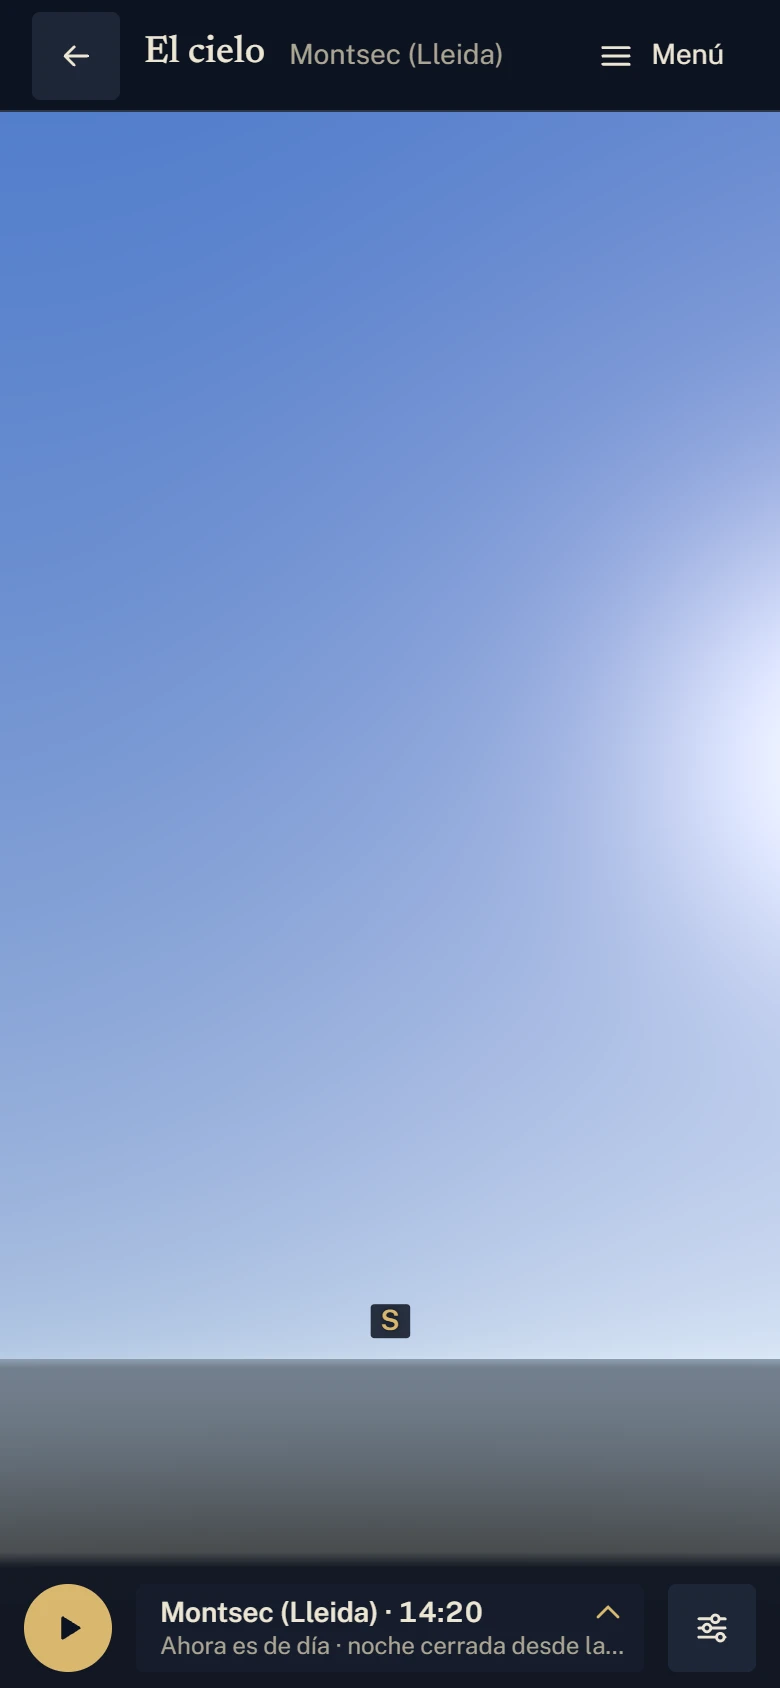
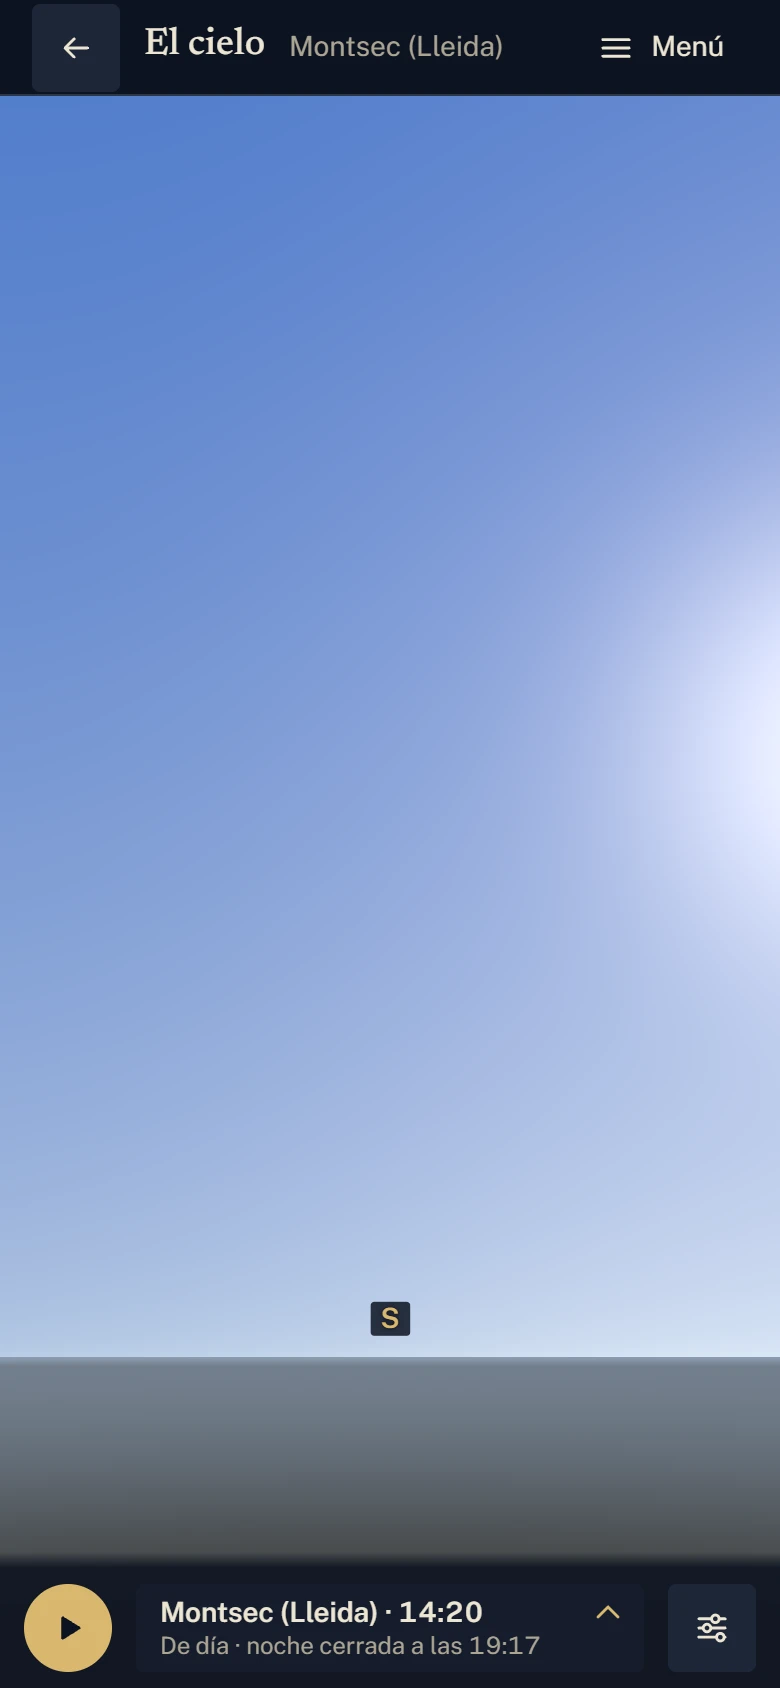
fix: lo de la revisión de la fase 10: el aviso del radar entero en el móvil, el cielo de día con su hora en la barra y los menores rápidos
- El aviso del radar de Venus, entero a la vista en la hoja del móvil en reposo
  (afterRenderEffect), con su e2e (toBeInViewport con ratio 1). Hallazgo 2.
- El resumen de día, «De día · noche cerrada a las …», cabe en la barra a 390 px.
  Hallazgo 3.
- «94 % iluminada» con el espacio duro (13); las lunas con mucho recreado, «su
  superficie, en parte recreada», con test (12a); las Venera, sin la afirmación sin
  fuente (12b); «Rendimiento medido», con las cifras de la fase 10 (14); los
  comentarios sobrantes (15); Chromium desde @playwright/test (16).
- Las capturas nuevas: el radar en el móvil y la revisión final del cielo de día.

Changed region(s): [[0.0, 0.0, 1.0, 0.0924], [0.2154, 0.955, 0.7692, 0.9858], [0.4615, 0.7701, 0.5231, 0.8009]]

diff --git a/src/app/features/body-panel/body-panel.ts b/src/app/features/body-panel/body-panel.ts
@@ -1,4 +1,14 @@
-import { Component, computed, inject, input, model, output } from '@angular/core';
+import {
+  Component,
+  type ElementRef,
+  afterRenderEffect,
+  computed,
+  inject,
+  input,
+  model,
+  output,
+  viewChild,
+} from '@angular/core';
 import { RouterLink } from '@angular/router';
 import { formatAu, formatDistanceKm, formatPeriodHours } from '../../core/format';
 import { getBody } from '../../data/bodies';
@@ -70,6 +80,28 @@ export class BodyPanel {
   readonly radarChange = output<boolean>();
 
   private readonly positions = inject(SystemPositions);
+  private readonly radarNote = viewChild<ElementRef<HTMLElement>>('radarNote');
+
+  constructor() {
+    // Con el radar puesto, su aviso («no es lo que verían tus ojos», D44 y D49), entero a la vista: en
+    // la hoja del móvil en reposo, con tres líneas, la última quedaba bajo el borde o bajo la sombra de
+    // «hay más» (revisión de la fase 10, hallazgo 2). Si algo queda tapado, el cuerpo de la ficha baja
+    // lo justo, sin animación. En escritorio, la tarjeta lo enseña todo y no se mueve.
+    afterRenderEffect({
+      earlyRead: () => {
+        const note = this.radar() === 'on' ? this.radarNote()?.nativeElement : undefined;
+        const body = note?.closest<HTMLElement>('.card__body');
+        if (!note || !body) return 0;
+        const shadowPx = 24; // la sombra de «hay más», 1.5rem (body-panel.css)
+        const visibleBottom = body.getBoundingClientRect().bottom - shadowPx;
+        return Math.max(0, note.getBoundingClientRect().bottom - visibleBottom);
+      },
+      write: (hidden) => {
+        if (hidden() <= 0) return;
+        this.radarNote()?.nativeElement.closest('.card__body')?.scrollBy({ top: hidden() });
+      },
+    });
+  }
   protected readonly body = computed(() => getBody(this.bodyId()));
   protected readonly kind = computed(() => bodyKindLabel(this.bodyId()));
   protected readonly link = computed(() => bodyPagePath(this.bodyId()));

diff --git a/src/app/features/sky-panel/sky-text.ts b/src/app/features/sky-panel/sky-text.ts
@@ -205,12 +205,6 @@ export interface SkySummaryBody {
 const SUMMARY_MAX = 3;
 
 /**
- * La línea de resumen del panel del cielo (fase 9c, 9c.3): la Luna y los planetas que están ahora sobre
- * el horizonte, los más altos primero («Saturno, 37° SE · Luna, 12° E»), y su lectura para el lector de
- * pantalla, con los rumbos en palabras. El Sol no: de día ya se dice aparte. La tabla entera, en «Esta
- * noche».
- */
-/**
  * Cuándo empieza la noche cerrada: el final del crepúsculo astronómico o, si el Sol no baja tanto
  * (el verano), el del náutico o el del civil.
  */
@@ -219,7 +213,8 @@ export const darkStart = (night: Extract<NightSky, { kind: 'night' }>): Date =>
 
 /**
  * El resumen de día (crítica de la fase 10): en lugar de nombrar lo que está sobre el horizonte y no
- * se ve, que es de día y cuándo empieza la noche cerrada.
+ * se ve, que es de día y cuándo empieza la noche cerrada. Corto, para que la hora quepa en la barra del
+ * móvil a 360 px (revisión de la fase 10, hallazgo 3).
  */
 export function daySummary(
   night: Extract<NightSky, { kind: 'night' }>,
@@ -227,11 +222,17 @@ export function daySummary(
 ): { readonly text: string; readonly spoken: string } {
   const at = clockAt(darkStart(night), place);
   return {
-    text: `Ahora es de día · noche cerrada desde las ${at}`,
+    text: `De día · noche cerrada a las ${at}`,
     spoken: `Ahora es de día. La noche cerrada empieza a las ${at}.`,
   };
 }
 
+/**
+ * La línea de resumen del panel del cielo (fase 9c, 9c.3): la Luna y los planetas que están ahora sobre
+ * el horizonte, los más altos primero («Saturno, 37° SE · Luna, 12° E»), y su lectura para el lector de
+ * pantalla, con los rumbos en palabras. El Sol no: de día ya se dice aparte. La tabla entera, en «Esta
+ * noche».
+ */
 export function skySummary(bodies: readonly SkySummaryBody[]): {
   readonly text: string;
   readonly spoken: string;

diff --git a/src/app/pages/about/about-page.html b/src/app/pages/about/about-page.html
@@ -265,21 +265,21 @@
       <tbody>
         <tr>
           <th scope="row">Imágenes por segundo, en todas las vistas y niveles</th>
-          <td class="number">58–60</td>
+          <td class="number">59–60</td>
           <td class="number">≥ 55</td>
-          <td><a [href]="report('7')">Fase 7</a></td>
+          <td><a [href]="report('10')">Fase 10</a></td>
         </tr>
         <tr>
           <th scope="row">Memoria de vídeo de la vista Tierra (alto y bajo)</th>
-          <td class="number">278 y 85&nbsp;MB</td>
+          <td class="number">278 y 86&nbsp;MB</td>
           <td class="number">300 y 120&nbsp;MB</td>
-          <td><a [href]="report('5')">Fase 5</a></td>
+          <td><a [href]="report('10')">Fase 10</a></td>
         </tr>
         <tr>
           <th scope="row">Las posiciones de los 30 cuerpos, por imagen</th>
-          <td class="number">0,16&nbsp;ms</td>
+          <td class="number">0,17–0,19&nbsp;ms</td>
           <td class="number">2&nbsp;ms</td>
-          <td><a [href]="report('2')">Fase 2</a></td>
+          <td><a [href]="report('10')">Fase 10</a></td>
         </tr>
         <tr>
           <th scope="row">Desplazamiento de la página al cargar (CLS), en tres móviles</th>
@@ -385,9 +385,9 @@
     </li>
     <li>
       Venus «Bajo las nubes»: la imagen del radar de Magellan, que mide el eco de cada punto y no la
-      luz que se ve, pintada con el color de las fotos de las Venera 13 y 14 (las únicas en color
-      hechas bajo las nubes, como en las imágenes de Magellan de la NASA), con la luz del Sol y el
-      brillo de sus nubes. Lo que el radar no cubrió, en un gris liso.
+      luz que se ve, pintada con el color de las fotos de las Venera 13 y 14 (hechas bajo las nubes,
+      como en las imágenes de Magellan de la NASA), con la luz del Sol y el brillo de sus nubes. Lo
+      que el radar no cubrió, en un gris liso.
     </li>
   </ul>
 </section>

diff --git a/src/app/pages/body-detail/body-labels.ts b/src/app/pages/body-detail/body-labels.ts
@@ -7,6 +7,7 @@ import { formatLongDate } from '../../core/format';
 import { bodyPagePath } from '../../data/body-links';
 import { findBody } from '../../data/body-index';
 import type { BodyId, BodyIndexEntry } from '../../data/body.model';
+import { MOON_RECREATION } from '../../data/moon-recreation';
 
 /** El tipo, encima del H1: «Planeta», «Estrella», «Luna de Saturno» o «Satélite de la Tierra». */
 export interface KindLine {
@@ -33,6 +34,15 @@ export function kindLineOf(body: BodyIndexEntry): KindLine {
  */
 const SCHEMATIC = new Set<BodyId>(['proteo']);
 
+/**
+ * Las lunas con una parte que nadie ha visto y que el mapa recrea (D45 y D48): al menos el 10 % de su
+ * superficie (`none` en `moon-recreation.ts`), Tritón, Deimos y las cinco grandes de Urano. Su imagen
+ * lo dice (revisión de la fase 10, hallazgo 12; duda 4 de la revisión de los textos).
+ */
+const PARTLY_RECREATED = new Set<BodyId>(
+  MOON_RECREATION.filter((moon) => moon.none >= 0.1).map((moon) => moon.body),
+);
+
 /** Lo que muestra la imagen de cada cuerpo (ESTILO §6: qué se ve, no «imagen de»), sin género. */
 function seen(id: BodyId): string {
   if (SCHEMATIC.has(id)) return 'su color esquemático (no hay un mapa de su superficie)';
@@ -49,7 +59,7 @@ function seen(id: BodyId): string {
     case 'titan':
       return 'su neblina';
     default:
-      return 'su superficie real';
+      return PARTLY_RECREATED.has(id) ? 'su superficie, en parte recreada' : 'su superficie real';
   }
 }
 

diff --git a/src/app/pages/body-detail/body-labels.spec.ts b/src/app/pages/body-detail/body-labels.spec.ts
@@ -32,6 +32,9 @@ describe('body-labels: los textos fijos de la ficha (fase 9)', () => {
     expect(imageAltOf(entry('titan'))).toMatch(/y su neblina:/);
     expect(imageAltOf(entry('tierra'))).toMatch(/^La Tierra, /);
     expect(imageAltOf(entry('luna'))).toMatch(/^La Luna, .*su superficie real/);
+    // Las lunas con mucho recreado lo dicen (revisión de la fase 10, hallazgo 12).
+    expect(imageAltOf(entry('miranda'))).toMatch(/su superficie, en parte recreada/);
+    expect(imageAltOf(entry('europa'))).toMatch(/su superficie real/);
     expect(imageAltOf(entry('proteo'))).toMatch(/color esquemático/);
     // Ninguno en masculino o femenino («iluminado»): la frase no tiene género.
     for (const body of BODY_INDEX) expect(imageAltOf(body)).not.toMatch(/iluminad/);

diff --git a/src/app/features/moon-panel/moon-panel.ts b/src/app/features/moon-panel/moon-panel.ts
@@ -159,7 +159,8 @@ export class MoonPanel {
     if (eclipse === 'partial')
       return `${phase.name} · eclipse parcial: entra en la sombra de la Tierra`;
     if (eclipse === 'penumbral') return `${phase.name} · eclipse penumbral: apenas se oscurece`;
-    return `${phase.name} · ${Math.round(phase.illuminatedFraction * 100)} % iluminada`;
+    // Con el espacio duro antes del % (ESTILO §3), como en el cielo y en «Hoy».
+    return `${phase.name} · ${Math.round(phase.illuminatedFraction * 100)}\u00a0% iluminada`;
   });
   /** Menos del 5 % iluminada: la cara visible, casi a oscuras (con la fase que ya se calcula). */
   readonly nearlyNew = computed(() => moonPhase(this.sim.time()).illuminatedFraction < NEARLY_NEW);

diff --git a/e2e/movil.spec.ts b/e2e/movil.spec.ts
@@ -96,7 +96,8 @@ test.describe('Móvil', () => {
     await expect(note).toHaveText(
       'Imagen de radar de la sonda Magellan, con el color de las fotos de las Venera 13 y 14: no es lo que verían tus ojos.',
     );
-    await expect(note).toBeInViewport();
+    // Entero a la vista, no solo un píxel (revisión de la fase 10, hallazgo 2).
+    await expect(note).toBeInViewport({ ratio: 1 });
     // Al cerrar la ficha (y con ella el aviso), vuelven las nubes.
     await page.getByRole('button', { name: 'Cerrar la ficha' }).tap();
     await page.getByRole('button', { name: 'Ver la ficha de Venus' }).tap();

diff --git a/src/styles.css b/src/styles.css
@@ -690,10 +690,6 @@ tls-root:has(tls-explorer-ui.is-clean) .site-header {
 }
 
 /*
- * «‹ Sistema solar» (fase 9c): la vuelta a la vista general, encima del título de las vistas Tierra y
- * Luna y del cuerpo elegido. Discreta, en el color secundario, con su zona táctil.
- */
-/*
  * «‹ Sistema solar» (revisión del bloque S, S9; Iván, 08-11: «Haz más reconocible el botón de volver
  * al sistema solar; recuerda, queremos una interfaz limpia y sencilla»): un botón de verdad, con el
  * lenguaje de «Índice» y «Controles» (`.control`): fondo elevado, la flecha y el texto, y la zona

diff --git a/src/app/features/sky-panel/sky-text.spec.ts b/src/app/features/sky-panel/sky-text.spec.ts
@@ -136,7 +136,7 @@ describe('daySummary: de día, que es de día y cuándo empieza la noche (críti
     expect(darkStart(night)).toEqual(night.dusk.astronomical);
     const at = clockAt(night.dusk.astronomical as Date, place);
     expect(daySummary(night, place)).toEqual({
-      text: `Ahora es de día · noche cerrada desde las ${at}`,
+      text: `De día · noche cerrada a las ${at}`,
       spoken: `Ahora es de día. La noche cerrada empieza a las ${at}.`,
     });
     // Sin noche astronómica (el Sol no baja tanto), el final del náutico o del civil.

diff --git a/e2e/cielo.spec.ts b/e2e/cielo.spec.ts
@@ -97,7 +97,7 @@ test.describe('El cielo desde España (fase 8)', () => {
     await expect(daytime).toBeVisible();
     await expect(daytime.locator('.sky__hint')).toHaveText('Ahora es de día: arrastra la hora o');
     await expect(page.locator('.sky__summary-line [aria-hidden="true"]')).toHaveText(
-      /^Ahora es de día · noche cerrada desde las \d\d:\d\d$/,
+      /^De día · noche cerrada a las \d\d:\d\d$/,
     );
     const tonight = daytime.getByRole('button', { name: 'Ver el cielo de esta noche' });
     await tonight.click();

diff --git a/src/app/features/moon-panel/moon-panel.spec.ts b/src/app/features/moon-panel/moon-panel.spec.ts
@@ -48,7 +48,7 @@ describe('MoonPanel: vistas y recorrido de la Luna (fase 6)', () => {
     const { root, sim } = render();
     const phase = moonPhase(sim.time());
     expect(root.querySelector('.moon__phase')?.textContent?.trim()).toBe(
-      `${phase.name} · ${Math.round(phase.illuminatedFraction * 100)} % iluminada`,
+      `${phase.name} · ${Math.round(phase.illuminatedFraction * 100)}\u00a0% iluminada`,
     );
   });
 

diff --git a/src/app/features/sky-panel/sky-panel.ts b/src/app/features/sky-panel/sky-panel.ts
@@ -222,7 +222,6 @@ export class SkyPanel {
     });
   });
 
-  /** La línea de resumen del panel (fase 9c): lo que está ahora sobre el horizonte. */
   /** De día, que es de día y cuándo empieza la noche cerrada; de noche, lo que está arriba. */
   protected readonly summary = computed(() => {
     const night = this.night();
